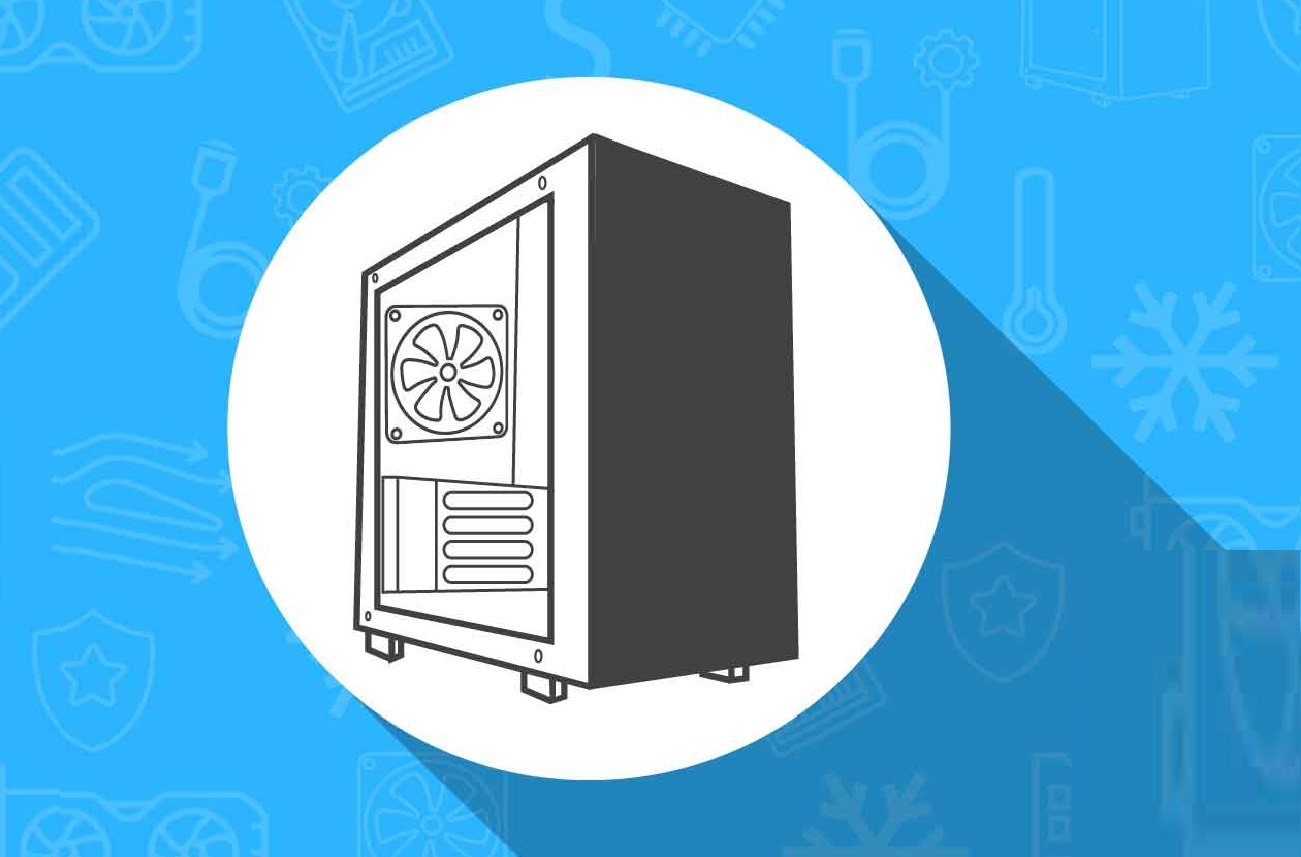
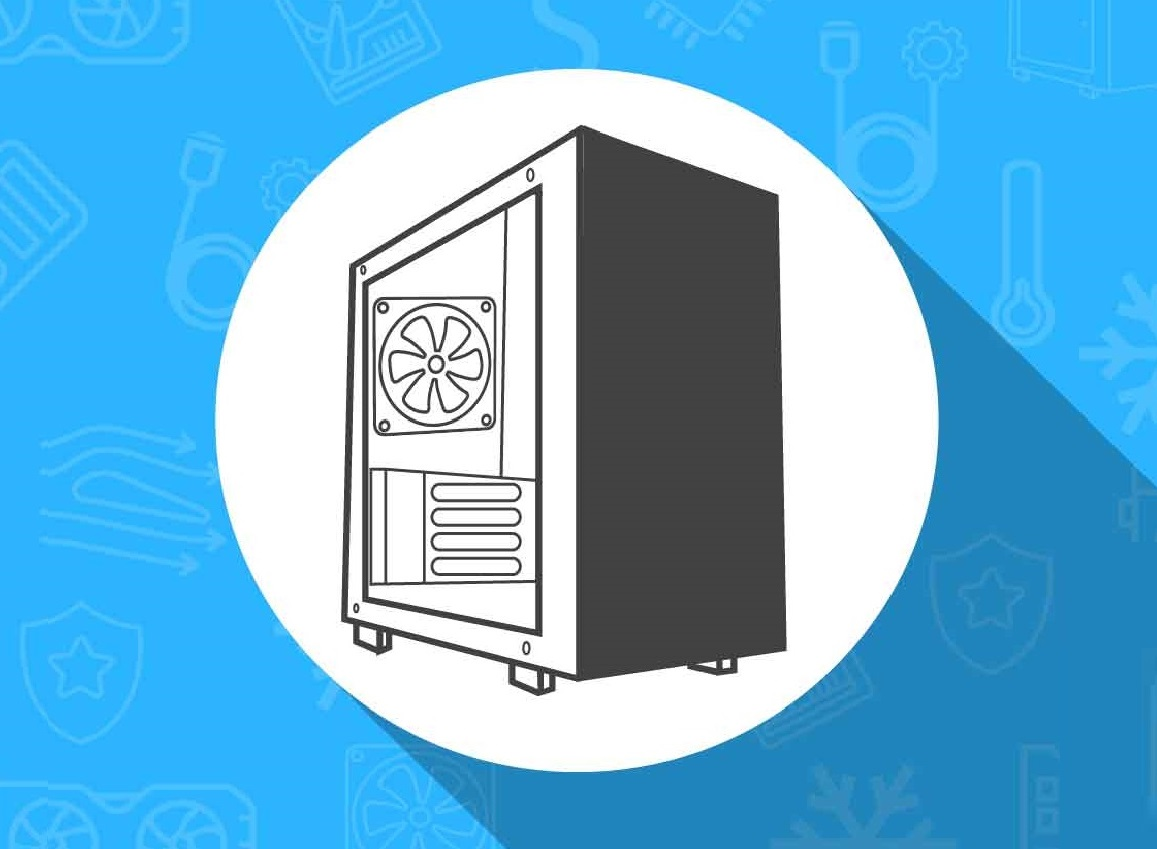
card fix

diff --git a/style.scss b/style.scss
@@ -545,7 +545,7 @@ a:hover {
 
 .img-small {
   max-width: 300px;
-  max-height: autwro;
+  max-height: auto;
 }
 
 .big-button {
@@ -1641,4 +1641,14 @@ blockquote p {
   font-size: 27px;
   margin-top: -10px;
   color: black;
+}
+
+.card {
+  max-width: 300px;
+  max-height: auto; 
+  float: right;
+  margin-left: 10px;
+  margin-bottom: 10px;
+  margin-top: 10px; 
+  border-radius: 25px; 
 }

diff --git a/pages/budget-pcs/smallest-atx-cases.md b/pages/budget-pcs/smallest-atx-cases.md
@@ -12,7 +12,7 @@ meta: "We're taking a look at the smallest atx case options on the market. If yo
 </h3>
 <script src="https://easypc.activehosted.com/f/embed.php?id=1" type="text/javascript" charset="utf-8"></script>
 
-![Smallest ATX Case Header](/img/header/smallest-atx-cases-card.jpg){: .img-right .img-small}
+![Smallest ATX Case Header](/img/header/smallest-atx-cases-card.jpg){: .card}
 
 Here's the deal:
 
